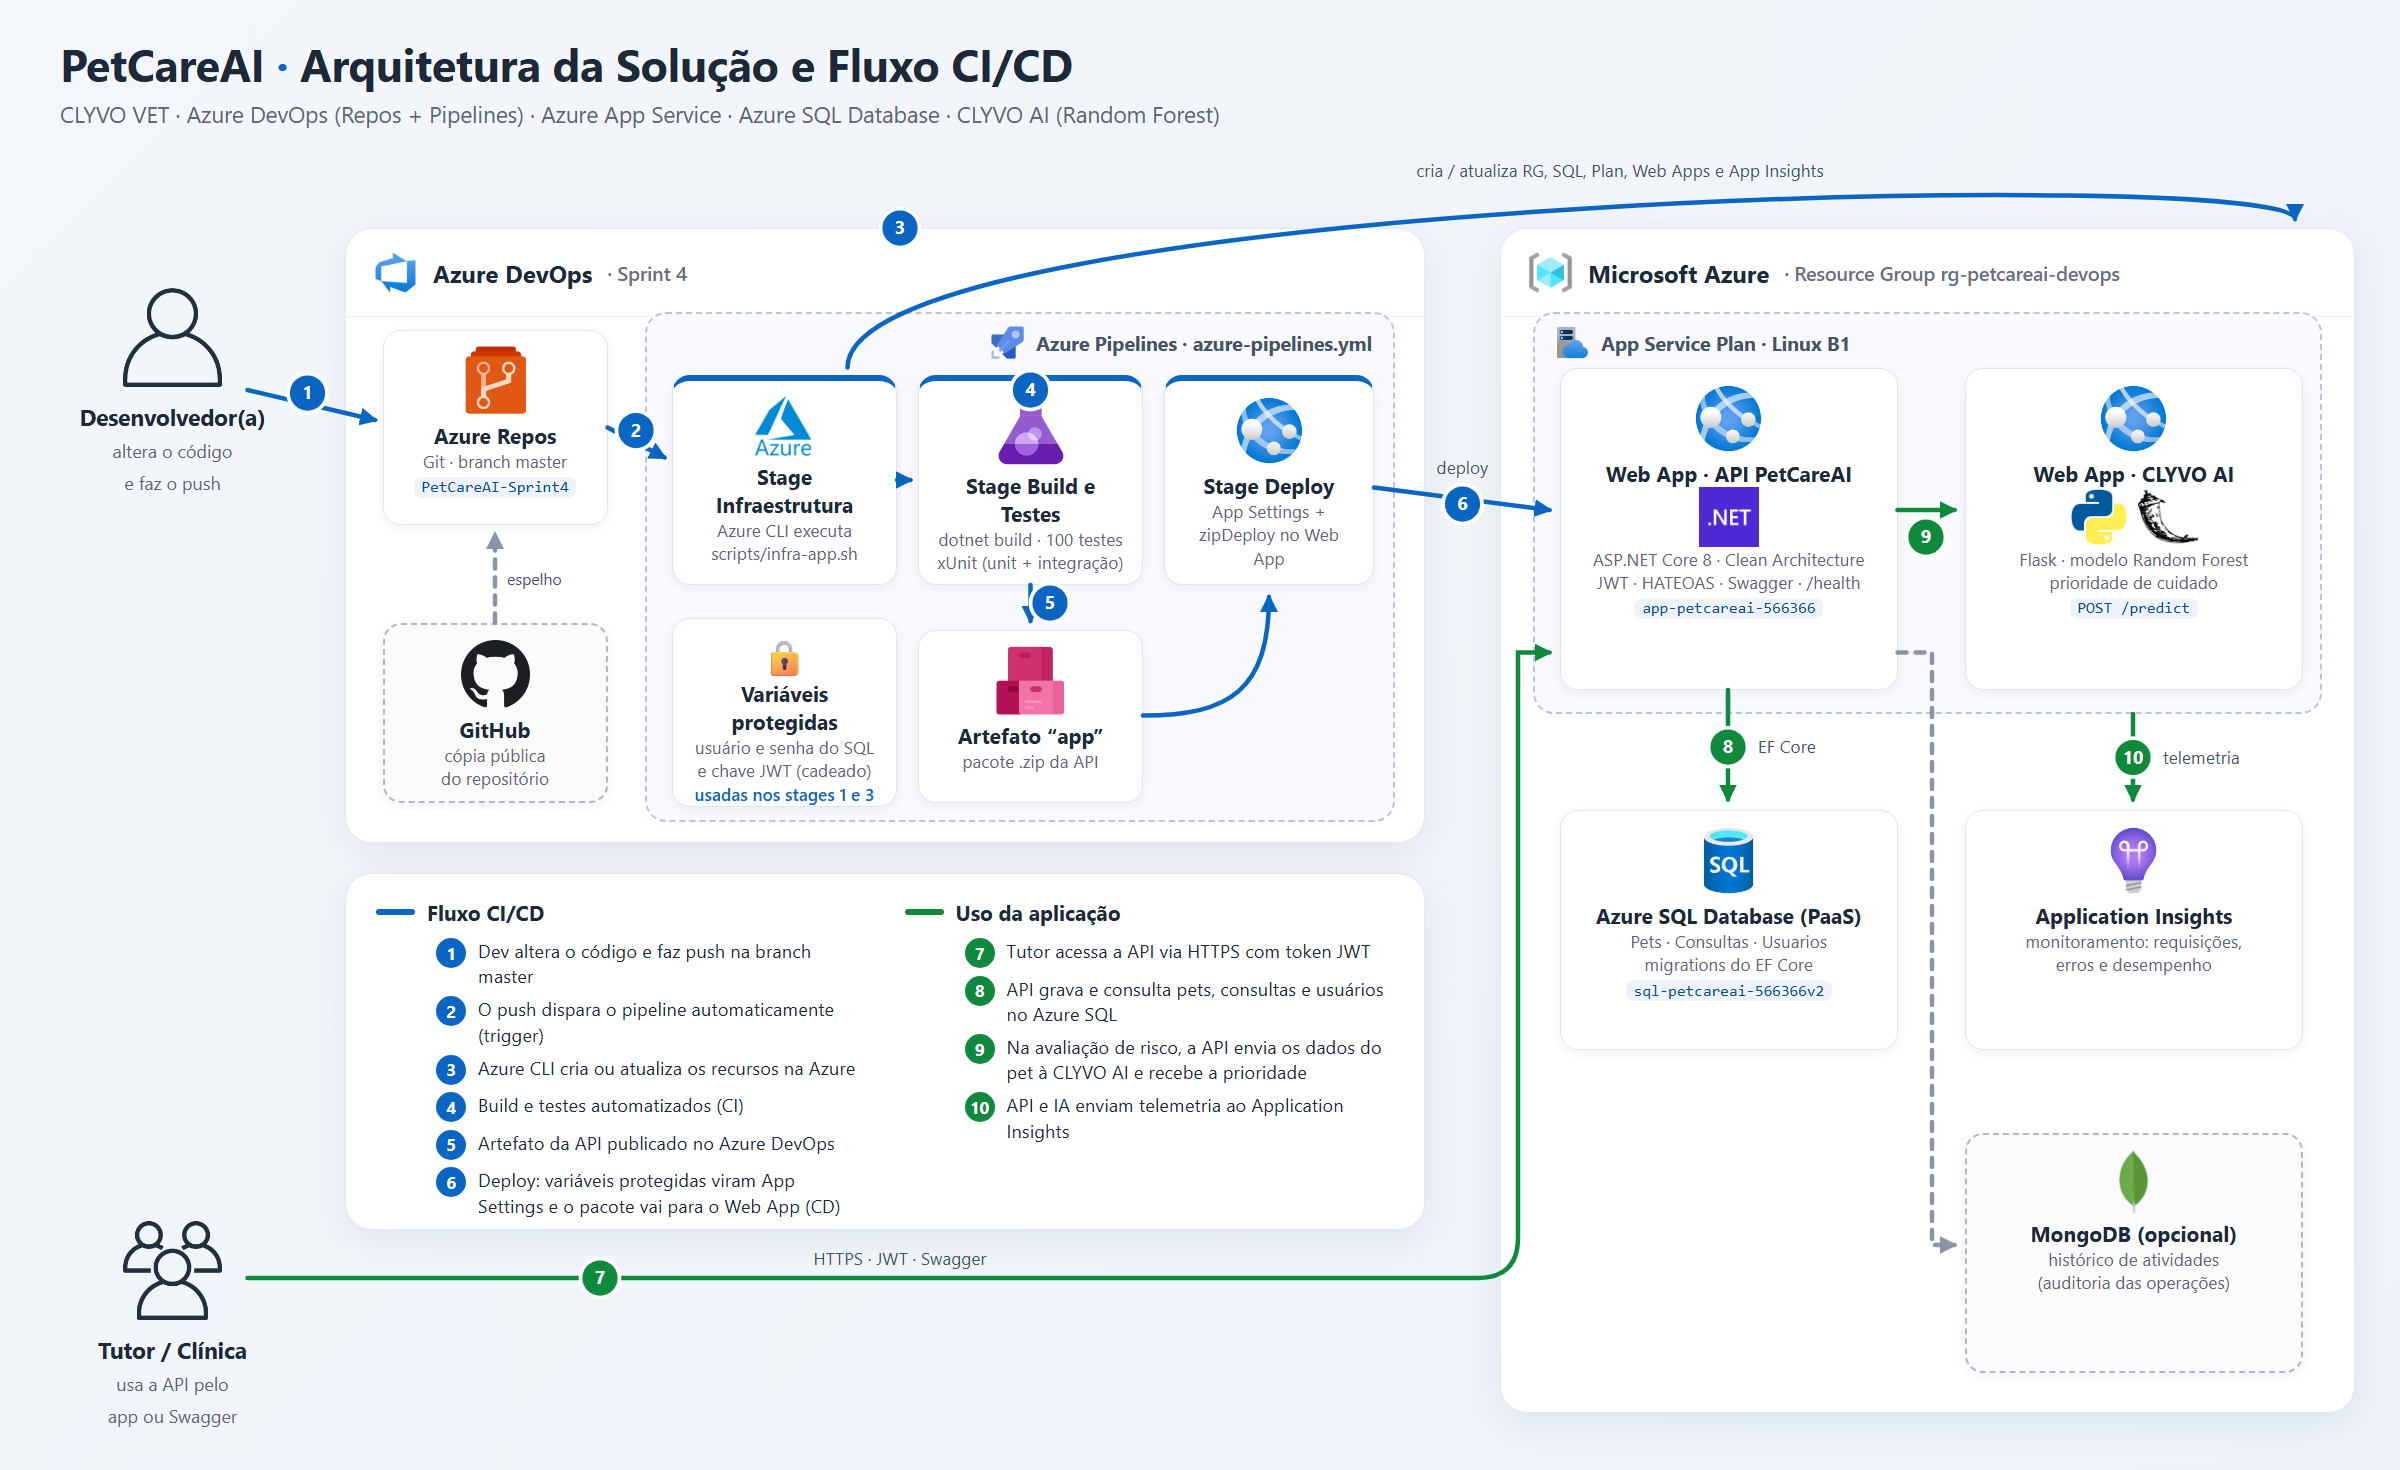
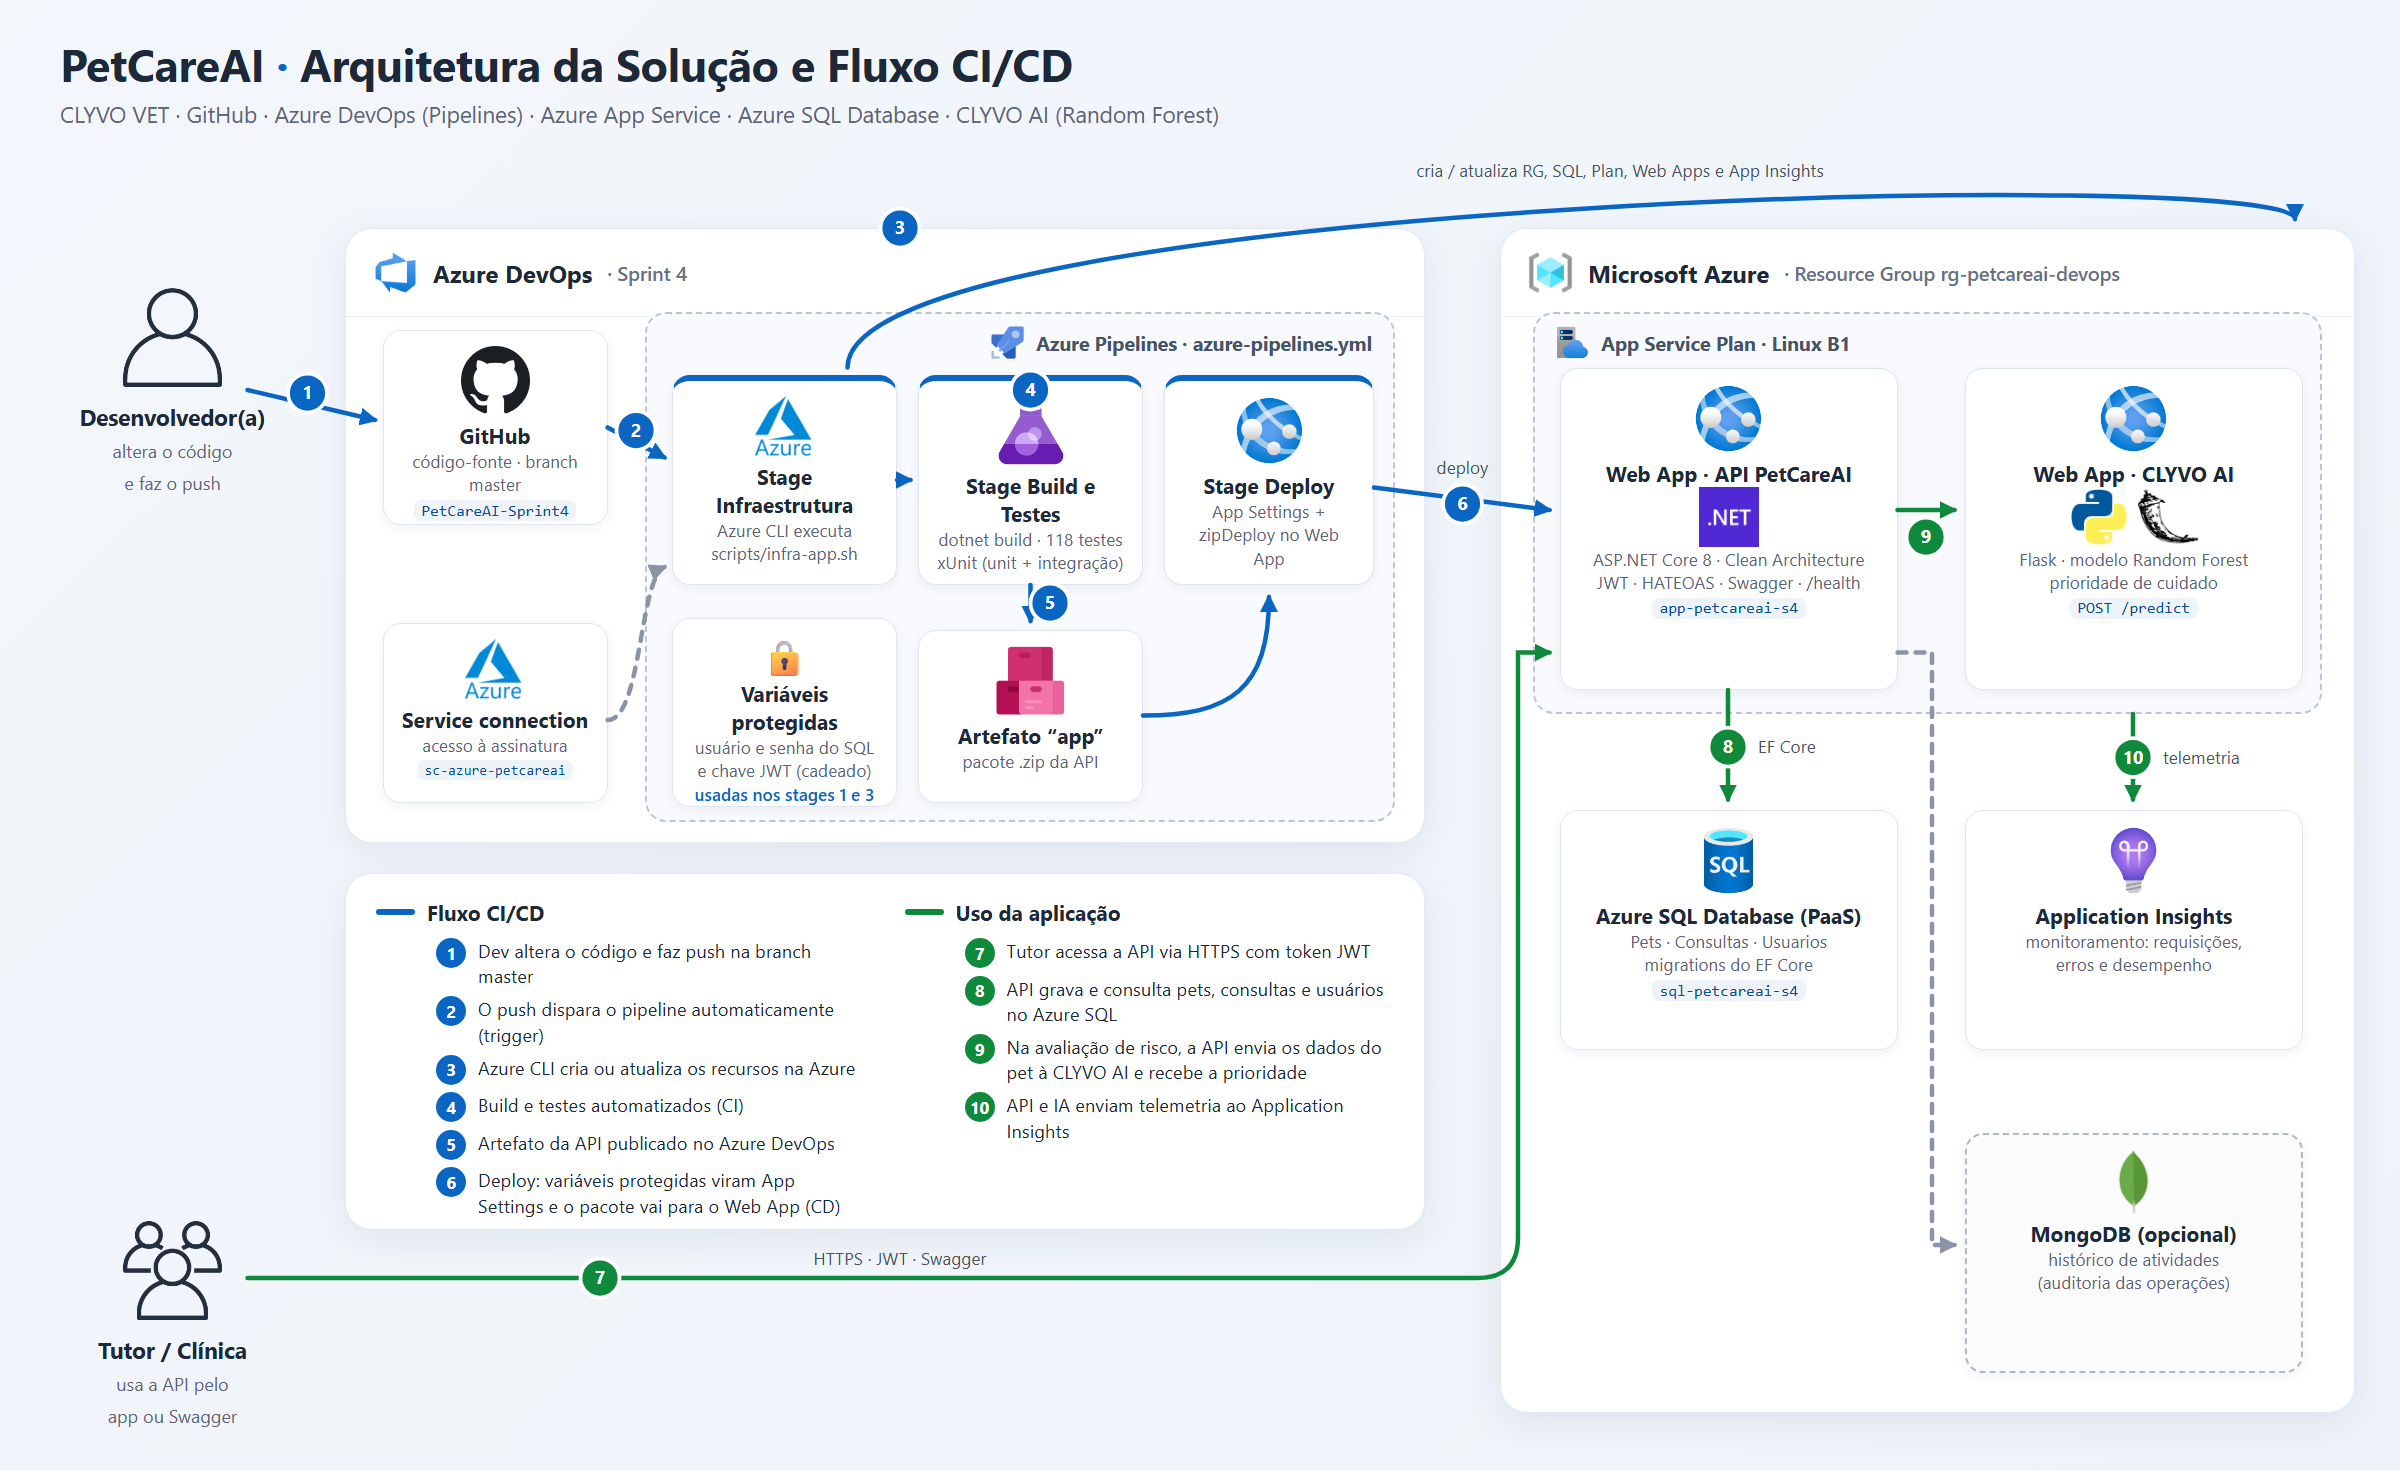
ci: novos nomes de recursos na assinatura do grupo
- app-petcareai-s4 e sql-petcareai-s4 (nomes da Sprint 3 continuam reservados)
- diagrama com o GitHub como origem do pipeline, a service connection e 118 testes

diff --git a/README.md b/README.md
@@ -387,5 +387,5 @@ Projeto: **Sprint 4 – Azure DevOps** na organização `dev.azure.com/RM566366`
 Para consultar o Azure SQL pelo Azure Data Studio ou SSMS, libere o seu IP no firewall do servidor:
 
 ```bash
-az sql server firewall-rule create --resource-group rg-petcareai-devops --server sql-petcareai-566366v2 --name MeuIP --start-ip-address <seu-ip> --end-ip-address <seu-ip>
+az sql server firewall-rule create --resource-group rg-petcareai-devops --server sql-petcareai-s4 --name MeuIP --start-ip-address <seu-ip> --end-ip-address <seu-ip>
 ```
